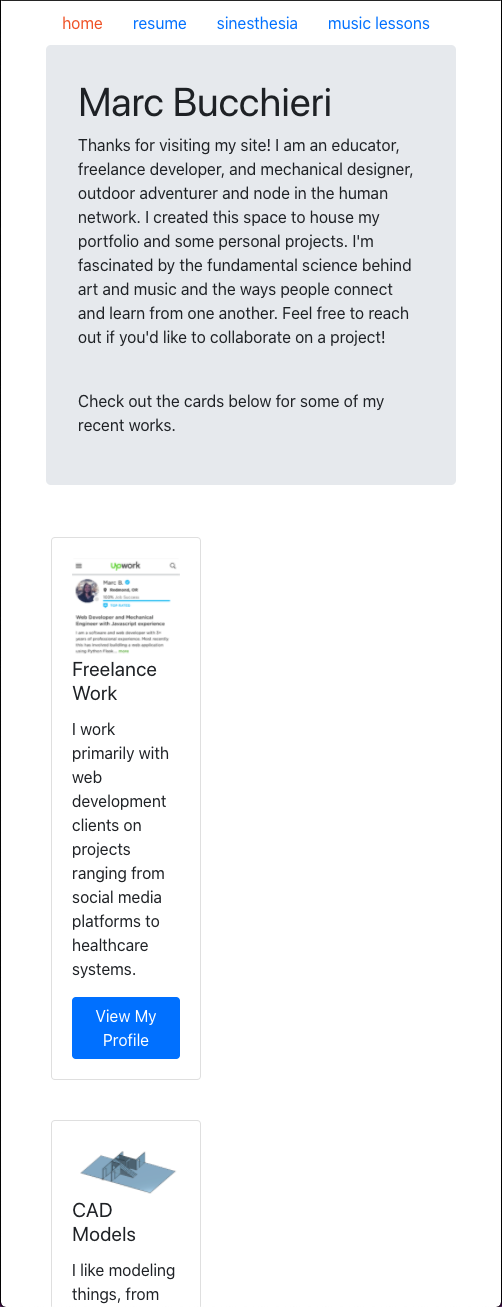
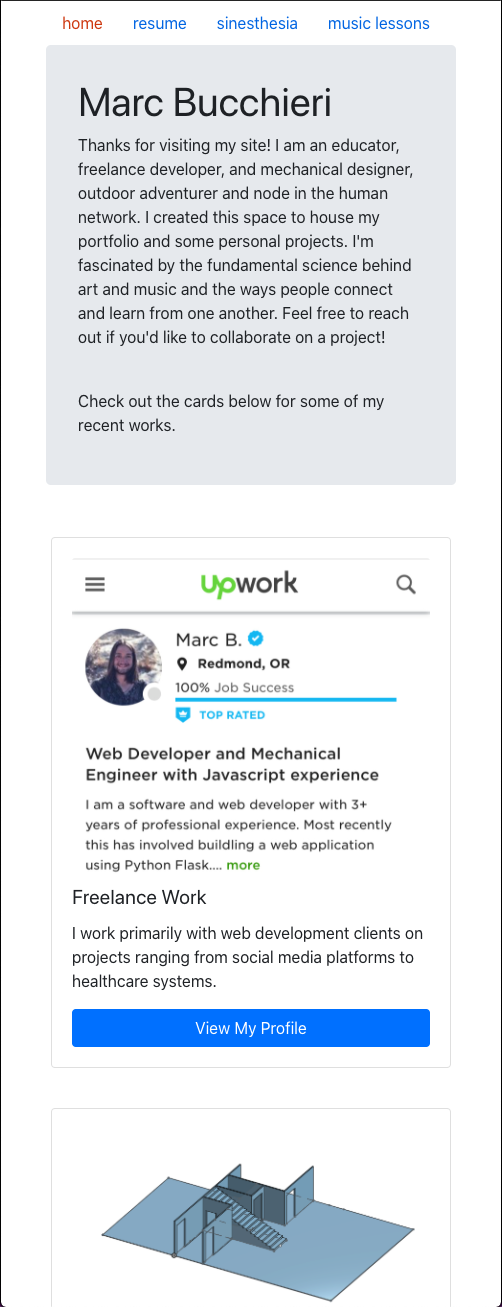
Responsive review, code and screen captures of reviewed code

Changed region(s): [[0.1195, 0.4285, 0.8665, 0.8263], [0.1494, 0.8569, 0.8367, 1.0], [0.7769, 0.4285, 0.8367, 0.4591]]

diff --git a/responsive_home.html b/responsive_home.html
@@ -1,15 +1,15 @@
-<!-- Current code at https://marqode.github.io/ -->
+<!-- Proposed code for https://marqode.github.io/ -->
 
-
-
-
-
+<!-- Responsiveness findings
+- .card class should be 100% wide to scale to full width on single column display.
+- Add other col-* Bootsrap classes to allow columns to stack on narrow display.
+- Oddly, when tested with Google Inspect, the columns don't stack and scale on small devices. I'll keep looking into that. -->
 
 
 <!doctype html>
 <html lang="en">
 
-<head>
+<head >
     <meta charset="utf-8">
     <title>Marc Bucchieri</title>
     <script
@@ -508,82 +508,82 @@
     <link href="/main.2c06facc5793b571773c.css" rel="stylesheet">
 </head>
 
-<body>
+<body >
     <div id="app">
         <div class="container-fluid">
-
+            <!-- Refer to the recommendations for the home page for the links in the top navigation -->
             <ul class="nav justify-content-center"><a aria-current="page" class="active" href="/"
-                style="color: rgb(241, 91, 42);">home</a><a href="/resume">resume</a><a
-                href="/sinesthesia">sinesthesia</a><a href="/lessons">music lessons</a></ul>
-        <div class="jumbotron">
-            <h1>Marc Bucchieri</h1>
-            <p>Thanks for visiting my site! I am an educator, freelance developer, and mechanical designer, outdoor
-                adventurer and node in the human network. I created this space to house my portfolio and some
-                personal projects. I'm fascinated by the fundamental science behind art and music and the ways
-                people connect and learn from one another. Feel free to reach out if you'd like to collaborate on a
-                project!</p><br>
-            <p>Check out the cards below for some of my recent works.</p>
-        </div>
+                    style="color: rgb(241, 91, 42);">home</a><a href="/resume">resume</a><a
+                    href="/sinesthesia">sinesthesia</a><a href="/lessons">music lessons</a></ul>
+            <div class="jumbotron">
+                <h1>Marc Bucchieri</h1>
+                <p>Thanks for visiting my site! I am an educator, freelance developer, and mechanical designer, outdoor
+                    adventurer and node in the human network. I created this space to house my portfolio and some
+                    personal projects. I'm fascinated by the fundamental science behind art and music and the ways
+                    people connect and learn from one another. Feel free to reach out if you'd like to collaborate on a
+                    project!</p><br>
+                <p>Check out the cards below for some of my recent works.</p>
+            </div>
+
+            <!-- Modify Bootstrap for a 100% wide card, border-left: -1; and styled footer -->
+            <style>
+                .card {
+                    max-width: 100%;
+                    margin: 20px;
+                    padding: 0;
+                    border-left: -1;
+                }
             
-        
-        
-        
-        
-        
-        
-        
-        
-        
-        
-        
-        
-        
-        
-        
-        
+                .card-footer {
+                    padding: .75rem 1.25rem;
+                    background-color: #fff;
+                    border-top: 0px solid #fff;
+                }
+            </style>
+            
             <div class="container-fluid">
-                <div class="row justify-content-center">
-                    <div class="col-md-4">
-                        <div class="card"><img src="/dacb25cefb5f75946797444715905196.jpeg" class="card-img-top"
-                                alt="Upwork Profile">
+                <div class="row justify-content-center card-group"> <!-- Utilize full Bootstrap card features to match card height and button alignment -->
+                    <div class="card">
+                        <img class="card-img-top" src="/dacb25cefb5f75946797444715905196.jpeg" alt="Upwork Profile">
+                        <div class="card-body">
                             <h5 class="card-title">Freelance Work</h5>
                             <p class="card-text">I work primarily with web development clients on projects ranging from
-                                social media platforms to healthcare systems.</p><a
-                                href="https://www.upwork.com/o/profiles/users/~0159865d28fe088b77/"
-                                class="btn btn-primary">View My Profile</a>
+                                social media platforms to healthcare systems.</p>
+                        </div>
+                        <div class="card-footer">
+                            <a href="https://www.upwork.com/o/profiles/users/~0159865d28fe088b77/"
+                                class="btn btn-primary btn-block">View My Profile</a>
                         </div>
                     </div>
-                    <div class="col-md-4">
-                        <div class="card"><img src="/6f12ac936c509c3d82ff1f49f5034b73.png" class="card-img-top"
-                                alt="House Floorplan">
+                    <div class="card">
+                        <img class="card-img-top" src="/6f12ac936c509c3d82ff1f49f5034b73.png" alt="House Floorplan">
+                        <div class="card-body">
                             <h5 class="card-title">CAD Models</h5>
-                            <p class="card-text">I like modeling things, from small complex parts to building designs
-                                and floor plans. Happy contributor to many a project involving intricate mechanics and
-                                rapid prototyping.</p>
+                            <p class="card-text">I like modeling things, from small complex parts to building designs and
+                                floor plans. Happy contributor to many a project involving intricate mechanics and rapid
+                                prototyping.</p>
+                        </div>
+                        <div class="card-footer">
+                            &nbsp;
                         </div>
                     </div>
-                    <div class="col-md-4">
-                        <div class="card"><img src="/2c9d1f8bb263f1e7353ecc4f615b9f71.png" class="card-img-top"
-                                alt="STEM Activity Site">
+                    <div class="card">
+                        <img class="card-img-top" src="/2c9d1f8bb263f1e7353ecc4f615b9f71.png" alt="STEM Activity Site">
+                        <div class="card-body">
                             <h5 class="card-title">STEM Activity Site</h5>
-                            <p class="card-text">This website helps teachers from rural areas to find STEM activities
-                                for their classes! The table is populated by educators and allows for comprehensive
-                                search filters and user comments.</p><a
-                                href="https://www.whitemountainscience.org/stem-resource-site"
-                                class="btn btn-primary">Visit the Site</a>
+                            <p class="card-text">This website helps teachers from rural areas to find STEM activities for
+                                their classes! The table is populated by educators and allows for comprehensive search
+                                filters and user comments.</p>
+                        </div>
+                        <div class="card-footer">
+                            <a href="https://www.whitemountainscience.org/stem-resource-site"
+                                class="btn btn-primary btn-block">Visit the STEM Activity Site</a>
                         </div>
                     </div>
                 </div>
             </div>
-            
-            
-            
-            
-            
-            
-            
             <footer class="footer">
-                
+                <!-- Refer to the recommendations for the home page for the links in the footer -->
                 <div class="row justify-content-center"><a href="https://github.com/marqode" class="social"><svg
                             aria-hidden="true" focusable="false" data-prefix="fab" data-icon="github"
                             class="svg-inline--fa fa-github fa-w-16 fa-2x " role="img"
